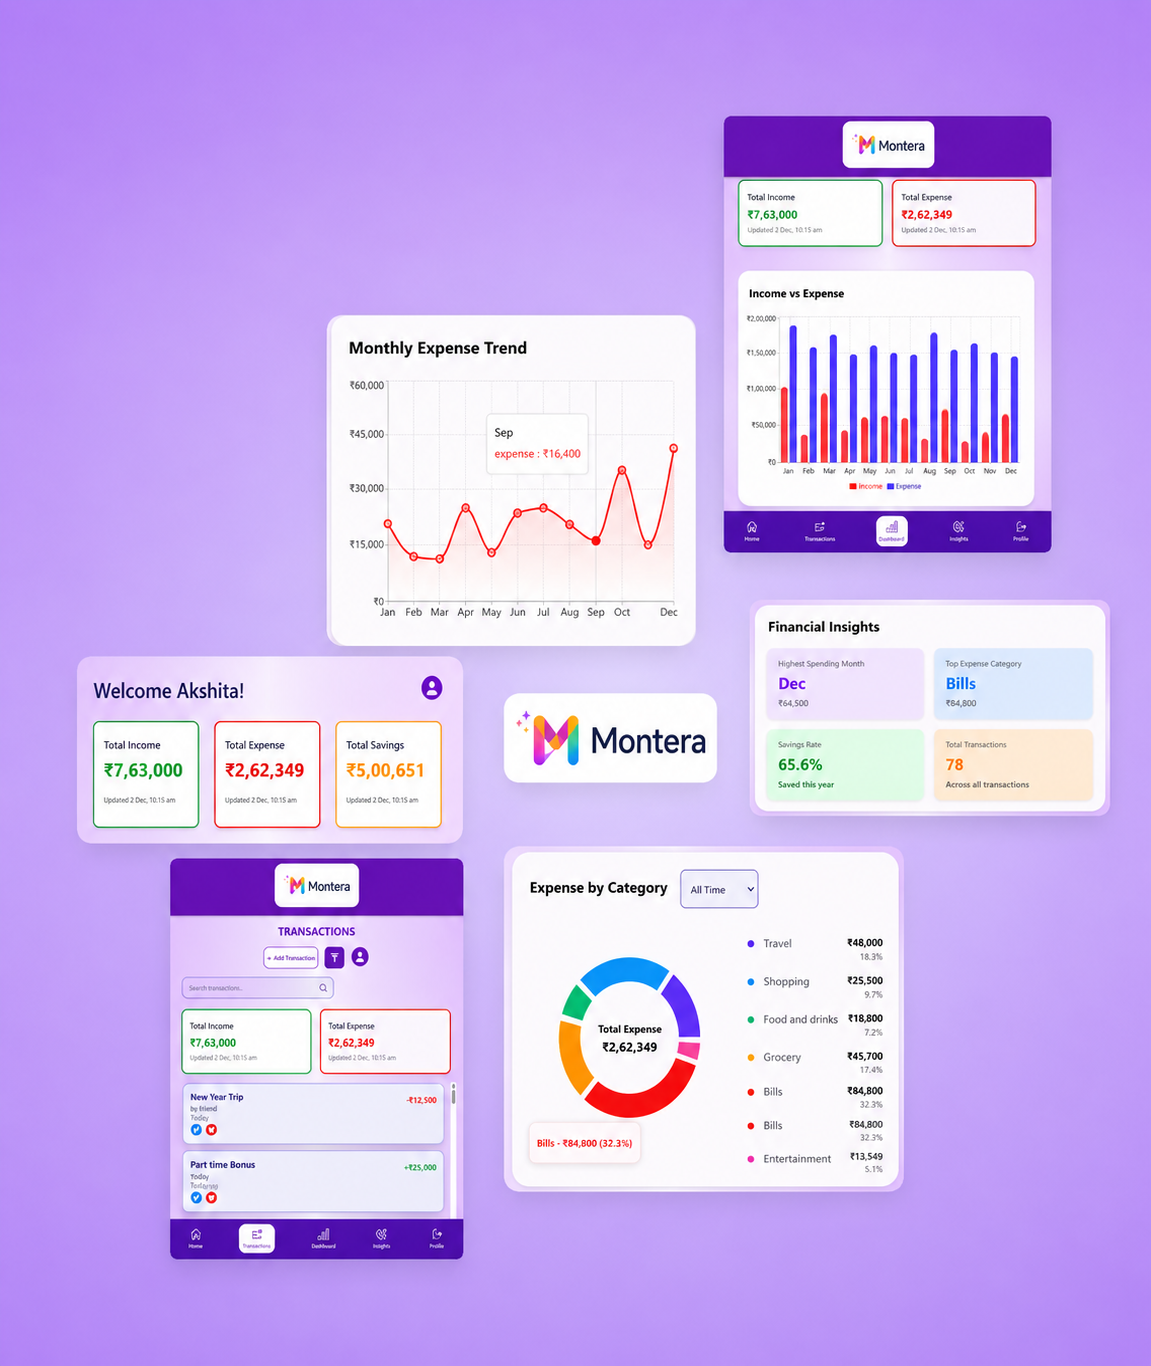
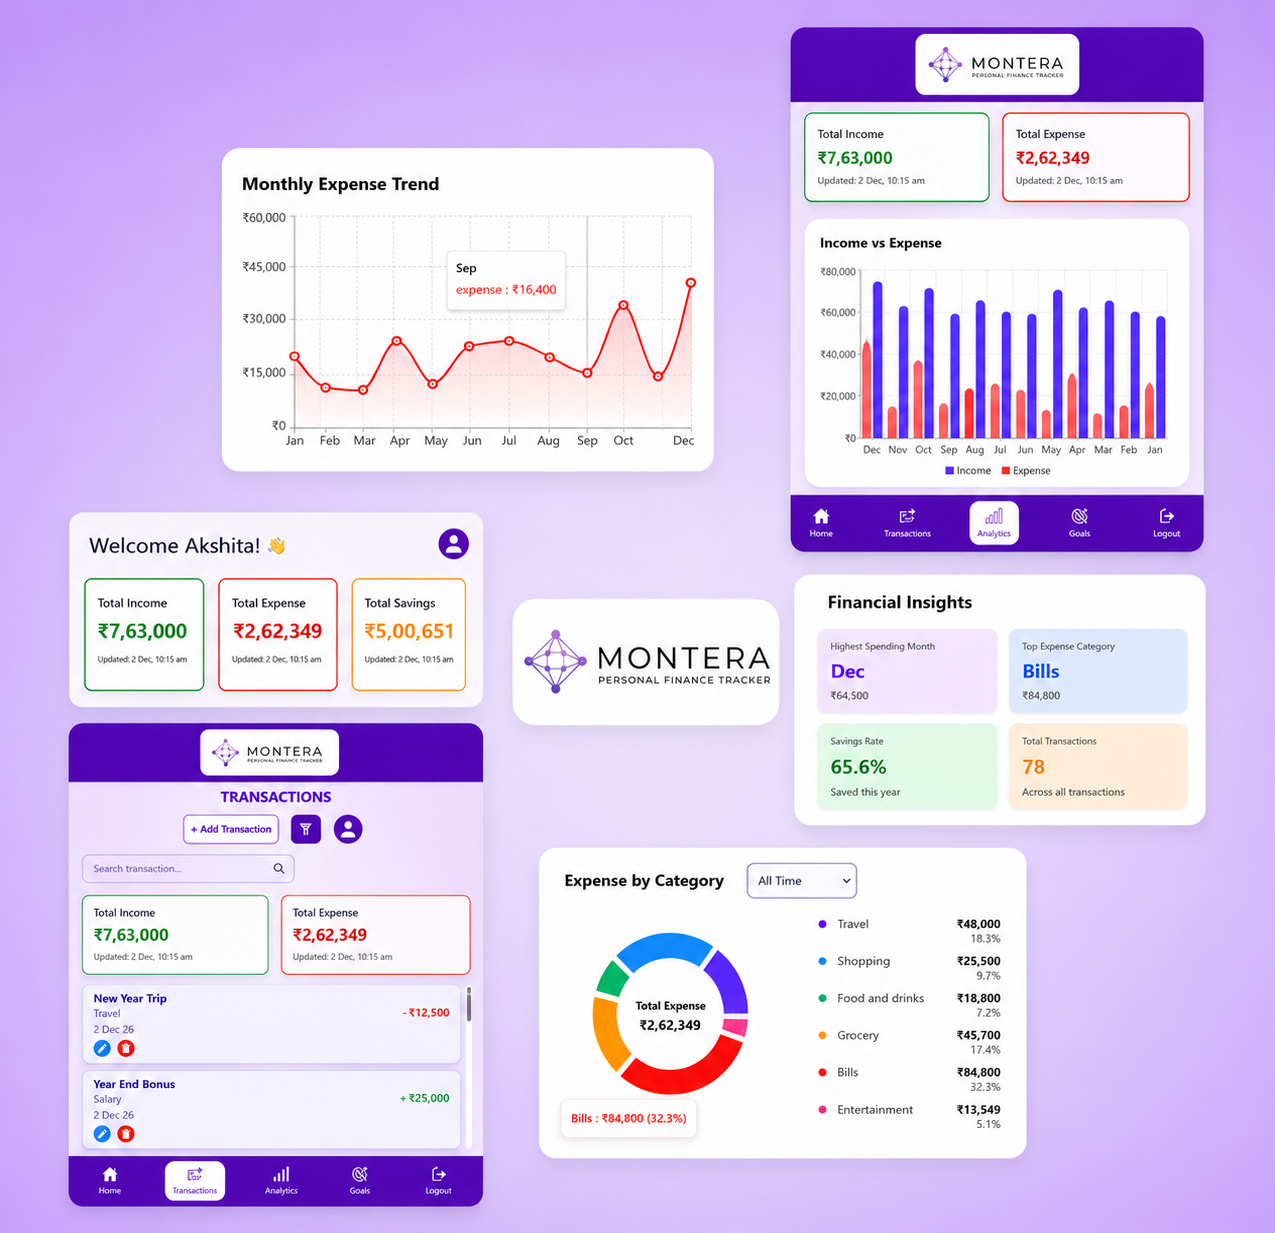
Added screenshots

diff --git a/backend/controllers/authController.js b/backend/controllers/authController.js
@@ -55,7 +55,7 @@ const loginUser = async(req, res)=>{
         const token = jwt.sign(
             {id: user._id},
             "secretkey",
-            {expiresIn: "1d"}
+            {expiresIn: "7d"}
         )
 
         //user registered successfully

diff --git a/frontend/finance-management-app/src/app/components/Sidebar.js b/frontend/finance-management-app/src/app/components/Sidebar.js
@@ -48,7 +48,7 @@ const Sidebar = () => {
             )}
             <div className="hidden md:block bg-purple-400 fixed top-0 left-0 h-full text-center transform transition-transition duration-300 w-20 lg:w-55 p-4">
                 <div className="flex items-center justify-center mb-6 -mt-9">
-                    <div className="flex items-center px-2 py-2 rounded-4xl mt-8">
+                    <div className="flex items-center px-2 py-2 rounded-4xl mt-10">
                         <Image
                             src={logo}
                             alt="Montera Logo"